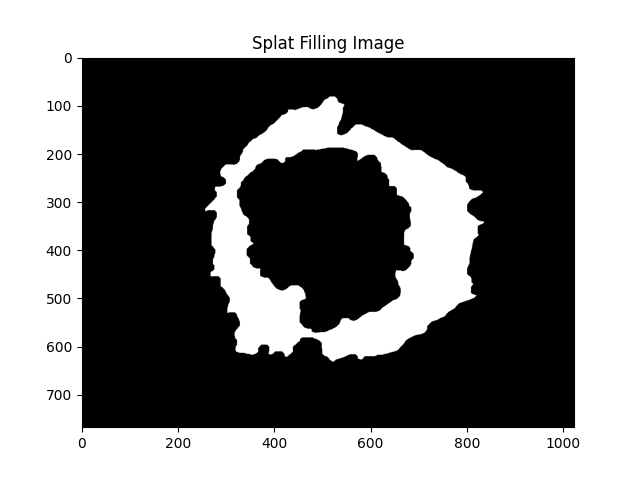
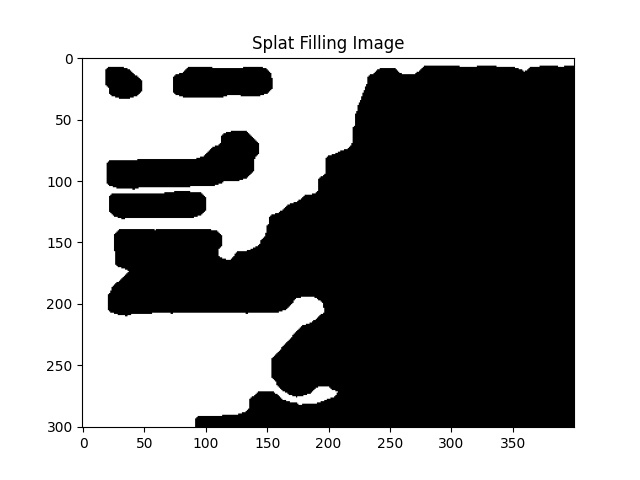
revision

diff --git a/splat5.py b/splat5.py
@@ -28,6 +28,12 @@ plt.title('Original Image')
 plt.imshow(img)
 plt.show()
 
+# Cropping
+img = img[0:rows-70,0:cols]
+plt.title('Cropped Image')
+plt.imshow(img)
+plt.show()
+
 # Resizing
 img_res = cv2.resize(
 	img,
@@ -84,11 +90,11 @@ plt.show()
 
 # img_thr = cv2.adaptiveThreshold(
 # 	img_blur, 255, cv2.ADAPTIVE_THRESH_MEAN_C, cv2.THRESH_BINARY, 11, 2)
-# img_thr = cv2.adaptiveThreshold(
-#	img_blur, 255, cv2.ADAPTIVE_THRESH_GAUSSIAN_C,cv2.THRESH_BINARY_INV
-#	|cv2.THRESH_BINARY, 11, 2)
-img_thr = cv2.threshold(img_blur, 0, 255,
-	cv2.THRESH_BINARY_INV | cv2.THRESH_OTSU)[1]
+img_thr = cv2.adaptiveThreshold(
+    img_blur, 255, cv2.ADAPTIVE_THRESH_GAUSSIAN_C,cv2.THRESH_BINARY_INV
+	|cv2.THRESH_BINARY, 11, 2)
+#img_thr = cv2.threshold(img_blur, 0, 255,
+#	cv2.THRESH_BINARY_INV | cv2.THRESH_OTSU)[1]
 
 plt.title('Thresholding Image')
 plt.imshow(img_thr, cmap = 'gray')

diff --git a/threshold.py b/threshold.py
@@ -8,7 +8,7 @@ plt.ioff()
 
 # Two outputs are obtained. First one is a retval which will be explained later. Second output is our thresholded image.
 
-img = cv2.imread('/Users/juanzapata/opencv/samples/data/gradient.png',0)
+img = cv2.imread('image/gradients.jpg',0)
 ret,thresh1 = cv2.threshold(img,127,255,cv2.THRESH_BINARY)
 ret,thresh2 = cv2.threshold(img,127,255,cv2.THRESH_BINARY_INV)
 ret,thresh3 = cv2.threshold(img,127,255,cv2.THRESH_TRUNC)
